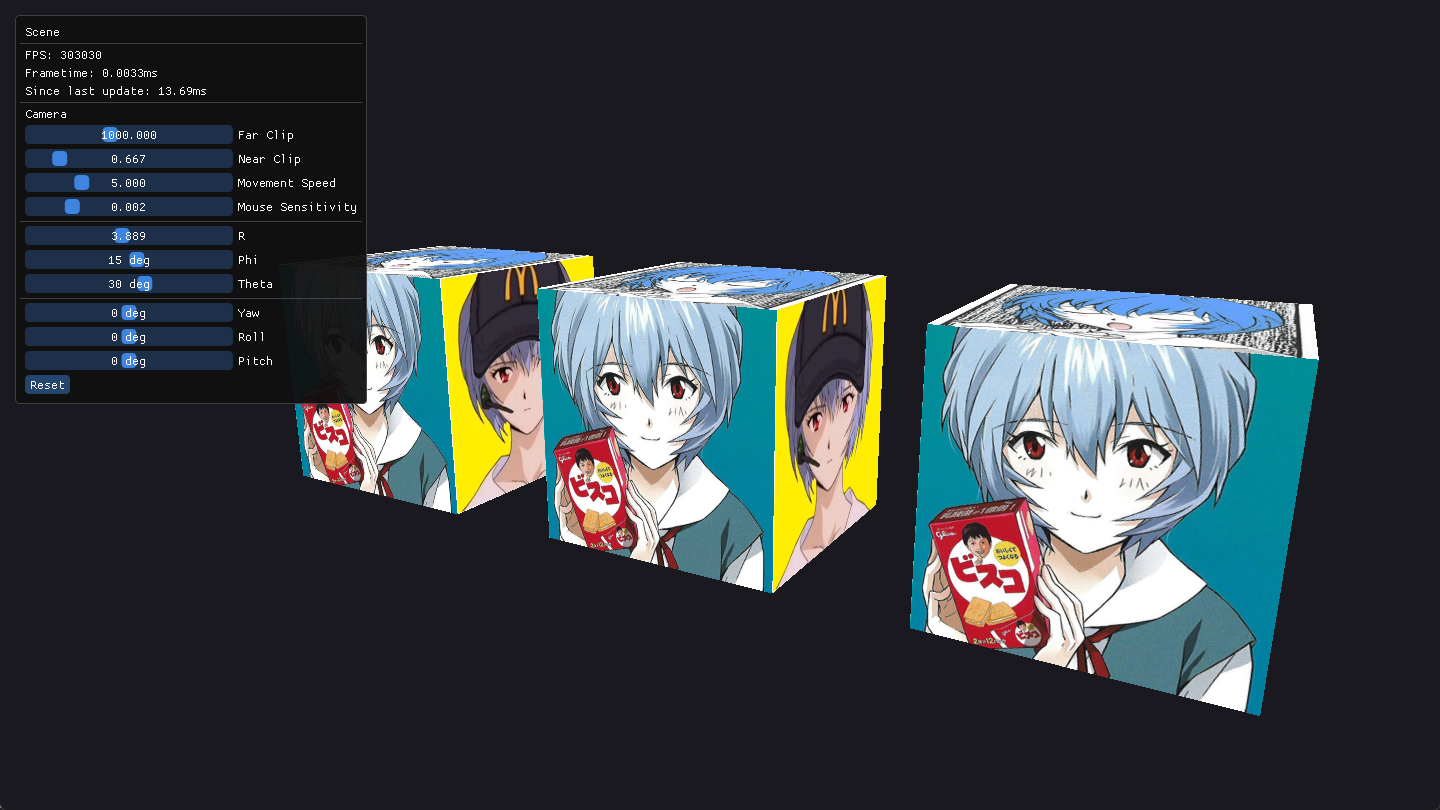
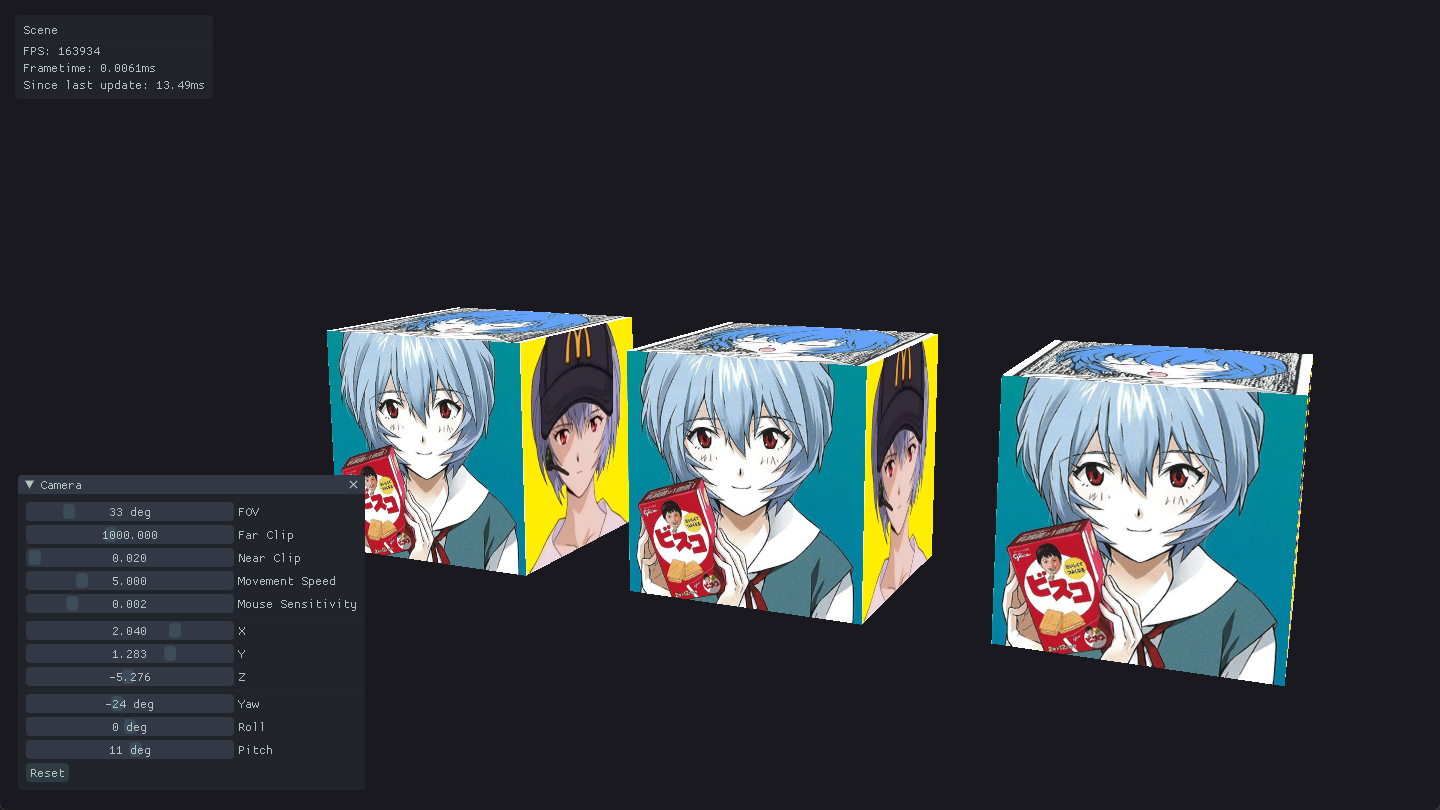
Use FOV perspective
And change the ImGui styling a little bit (https://github.com/simongeilfus/Cinder-ImGui)

diff --git a/src/Window/Imgui.cpp b/src/Window/Imgui.cpp
@@ -14,6 +14,44 @@ Imgui::Imgui() {
     style.ScrollbarRounding = 11 / 3.;
 
     style.ScaleAllSizes(1.33f);
+    style.Colors[ImGuiCol_Text]                  = ImVec4(0.86f, 0.93f, 0.89f, 0.78f);
+    style.Colors[ImGuiCol_TextDisabled]          = ImVec4(0.86f, 0.93f, 0.89f, 0.28f);
+    style.Colors[ImGuiCol_WindowBg]              = ImVec4(0.13f, 0.14f, 0.17f, 1.00f);
+    style.Colors[ImGuiCol_Border]                = ImVec4(0.31f, 0.31f, 1.00f, 0.00f);
+    style.Colors[ImGuiCol_BorderShadow]          = ImVec4(0.00f, 0.00f, 0.00f, 0.00f);
+    style.Colors[ImGuiCol_FrameBg]               = ImVec4(0.20f, 0.22f, 0.27f, 1.00f);
+    style.Colors[ImGuiCol_FrameBgHovered]        = ImVec4(0.92f, 0.18f, 0.29f, 0.78f);
+    style.Colors[ImGuiCol_FrameBgActive]         = ImVec4(0.92f, 0.18f, 0.29f, 1.00f);
+    style.Colors[ImGuiCol_TitleBg]               = ImVec4(0.20f, 0.22f, 0.27f, 1.00f);
+    style.Colors[ImGuiCol_TitleBgCollapsed]      = ImVec4(0.20f, 0.22f, 0.27f, 0.75f);
+    style.Colors[ImGuiCol_TitleBgActive]         = ImVec4(0.92f, 0.18f, 0.29f, 1.00f);
+    style.Colors[ImGuiCol_MenuBarBg]             = ImVec4(0.20f, 0.22f, 0.27f, 0.47f);
+    style.Colors[ImGuiCol_ScrollbarBg]           = ImVec4(0.20f, 0.22f, 0.27f, 1.00f);
+    style.Colors[ImGuiCol_ScrollbarGrab]         = ImVec4(0.09f, 0.15f, 0.16f, 1.00f);
+    style.Colors[ImGuiCol_ScrollbarGrabHovered]  = ImVec4(0.92f, 0.18f, 0.29f, 0.78f);
+    style.Colors[ImGuiCol_ScrollbarGrabActive]   = ImVec4(0.92f, 0.18f, 0.29f, 1.00f);
+    style.Colors[ImGuiCol_CheckMark]             = ImVec4(0.71f, 0.22f, 0.27f, 1.00f);
+    style.Colors[ImGuiCol_SliderGrab]            = ImVec4(0.47f, 0.77f, 0.83f, 0.14f);
+    style.Colors[ImGuiCol_SliderGrabActive]      = ImVec4(0.92f, 0.18f, 0.29f, 1.00f);
+    style.Colors[ImGuiCol_Button]                = ImVec4(0.47f, 0.77f, 0.83f, 0.14f);
+    style.Colors[ImGuiCol_ButtonHovered]         = ImVec4(0.92f, 0.18f, 0.29f, 0.86f);
+    style.Colors[ImGuiCol_ButtonActive]          = ImVec4(0.92f, 0.18f, 0.29f, 1.00f);
+    style.Colors[ImGuiCol_Header]                = ImVec4(0.92f, 0.18f, 0.29f, 0.76f);
+    style.Colors[ImGuiCol_HeaderHovered]         = ImVec4(0.92f, 0.18f, 0.29f, 0.86f);
+    style.Colors[ImGuiCol_HeaderActive]          = ImVec4(0.92f, 0.18f, 0.29f, 1.00f);
+    style.Colors[ImGuiCol_Separator]             = ImVec4(0.14f, 0.16f, 0.19f, 1.00f);
+    style.Colors[ImGuiCol_SeparatorHovered]      = ImVec4(0.92f, 0.18f, 0.29f, 0.78f);
+    style.Colors[ImGuiCol_SeparatorActive]       = ImVec4(0.92f, 0.18f, 0.29f, 1.00f);
+    style.Colors[ImGuiCol_ResizeGrip]            = ImVec4(0.47f, 0.77f, 0.83f, 0.04f);
+    style.Colors[ImGuiCol_ResizeGripHovered]     = ImVec4(0.92f, 0.18f, 0.29f, 0.78f);
+    style.Colors[ImGuiCol_ResizeGripActive]      = ImVec4(0.92f, 0.18f, 0.29f, 1.00f);
+    style.Colors[ImGuiCol_PlotLines]             = ImVec4(0.86f, 0.93f, 0.89f, 0.63f);
+    style.Colors[ImGuiCol_PlotLinesHovered]      = ImVec4(0.92f, 0.18f, 0.29f, 1.00f);
+    style.Colors[ImGuiCol_PlotHistogram]         = ImVec4(0.86f, 0.93f, 0.89f, 0.63f);
+    style.Colors[ImGuiCol_PlotHistogramHovered]  = ImVec4(0.92f, 0.18f, 0.29f, 1.00f);
+    style.Colors[ImGuiCol_TextSelectedBg]        = ImVec4(0.92f, 0.18f, 0.29f, 0.43f);
+    style.Colors[ImGuiCol_PopupBg]               = ImVec4(0.20f, 0.22f, 0.27f, 0.9f);
+    style.Colors[ImGuiCol_ModalWindowDimBg]      = ImVec4(0.20f, 0.22f, 0.27f, 0.73f);
 }
 
 Imgui::~Imgui() {

diff --git a/src/Core/Cinq.cpp b/src/Core/Cinq.cpp
@@ -1,10 +1,10 @@
 #include "Cinq.hpp"
 
 Cinq::Cinq()
-    : window(1280, 720, "Cinq"), width(1280), height(720), title("Cinq") {}
+    : window(1280, 720, "Cinq"), width(1280), height(720), title("Cinq"), aspectRatio((float)width / height) {}
 
 Cinq::Cinq(int width, int height, const char* title)
-    : window(width, height, title), width(width), height(height), title(title) {
+    : window(width, height, title), width(width), height(height), title(title), aspectRatio((float)width / height) {
     drawables.push_back(
         std::make_unique<Cube>(window.getGraphicsPipeline(), 0.f)
     );
@@ -39,7 +39,7 @@ void Cinq::update() {
 
     window.getGraphicsPipeline().clearBuffer(bgColor);
     window.getGraphicsPipeline().setCamera(camera.getTransformMatrix());
-    window.getGraphicsPipeline().setProjection(DirectX::XMMatrixPerspectiveLH(1.f, (float)height / width, camera.getNearClip(), camera.getFarClip()));
+    window.getGraphicsPipeline().setProjection(DirectX::XMMatrixPerspectiveFovLH(camera.getFOV(), aspectRatio, camera.getNearClip(), camera.getFarClip()));
 
     // Draw scene
     for (auto& drawable : drawables) {
@@ -71,6 +71,10 @@ void Cinq::update() {
             ImGuiWindowFlags_NoFocusOnAppearing |
             ImGuiWindowFlags_NoNav;
 
+        ImGuiWindowFlags cameraWindowFlags = 
+            ImGuiWindowFlags_AlwaysAutoResize   |
+            ImGuiWindowFlags_NoFocusOnAppearing;
+
         const float PAD = 15.0f;
         const ImGuiViewport* viewport = ImGui::GetMainViewport();
         ImVec2 workspacePos = viewport->WorkPos; // Use work area to avoid menu-bar/task-bar, if any!
@@ -83,16 +87,17 @@ void Cinq::update() {
         ImGui::SetNextWindowPos(position, ImGuiCond_Always, posPivot);
         windowFlags |= ImGuiWindowFlags_NoMove;
 
+        ImGui::SetNextWindowBgAlpha(0.75f);
         if (ImGui::Begin("Scene", &showControls, windowFlags)) {
             ImGui::Text("Scene");
             ImGui::Separator();
             ImGui::Text("FPS: %d", (int)(1000/(t1*1000)));
             ImGui::Text("Frametime: %.4fms", t1*1000);
             ImGui::Text("Since last update: %.2fms", ts*1000);
-            ImGui::Separator();
 
-            ImGui::Text("Camera");
-            camera.createInterface();
+            ImGui::SetNextWindowBgAlpha(0.75f);
+            if (ImGui::Begin("Camera", &showControls, cameraWindowFlags))
+                camera.createInterface();
         }
         ImGui::End();
     }
@@ -108,15 +113,12 @@ void Cinq::update() {
     }
 
     if (window.keyboard.keyIsPressed(VK_ESCAPE)) {
-        camera.setFPS(false);
+        camera.reset();
         char buf[256];
         snprintf(buf, 256, "Cinq");
         window.setTitle(buf);
         window.showCursor();
     }
-
-    if (window.keyboard.keyIsPressed('R'))
-        camera.reset();
     
     if (camera.isFPS()) {
         // Forward

diff --git a/src/Core/Camera.cpp b/src/Core/Camera.cpp
@@ -57,6 +57,7 @@ DirectX::XMMATRIX Camera::getTransformMatrix() const {
 }
 
 void Camera::createInterface() {
+    ImGui::SliderAngle("FOV", &fov, 0.f, 180.f);
     ImGui::SliderFloat("Far Clip", &farClip, 0.f, 2500.f);
     ImGui::SliderFloat("Near Clip", &nearClip, 0.f, 5.f);
     ImGui::SliderFloat("Movement Speed", &movementSpeed, 0.f, 20.f);
@@ -81,13 +82,14 @@ void Camera::createInterface() {
 
 void Camera::reset() {
     r        = 5.f;
+    fov      = deg2rad(100 / 3.f);
     phi      = 0.f;
     yaw      = 0.f;
     roll     = 0.f;
     pitch    = 0.f;
     theta    = 0.f;
     farClip  = 1000.f;
-    nearClip = 2 / 3.f;
+    nearClip = 1 / 50.f;
 
     // Prep for using cartesian coordinates later on
     pos      = {0.f, 0.f, -5.f};

diff --git a/src/Core/Camera.hpp b/src/Core/Camera.hpp
@@ -19,9 +19,11 @@ public:
     inline bool isFPS() const { return moving; }
     inline float getFarClip() const { return farClip; }
     inline float getNearClip() const { return nearClip; }
+    inline float getFOV() const { return fov; }
 
 private:
     float r;
+    float fov;
     float phi;
     float yaw;
     float roll;

diff --git a/src/Core/Pipeline.cpp b/src/Core/Pipeline.cpp
@@ -102,6 +102,7 @@ Pipeline::Pipeline(HWND hWnd, int width, int height) : width(width), height(heig
 void Pipeline::presentBuffer() {
     ImGui_ImplDX11_RenderDrawData(ImGui::GetDrawData());
     swapchain->Present(1, NULL);
+    //                ~|~ Set to 0 to disable V-Sync
 }
 
 void Pipeline::draw(size_t count) {

diff --git a/src/Core/Cinq.hpp b/src/Core/Cinq.hpp
@@ -27,6 +27,7 @@ private:
     Camera camera;
     const char* title;
     int width, height;
+    float aspectRatio;
     std::vector<std::unique_ptr<Drawable>> drawables;
     const uint32_t drawableCount = 128;
 
